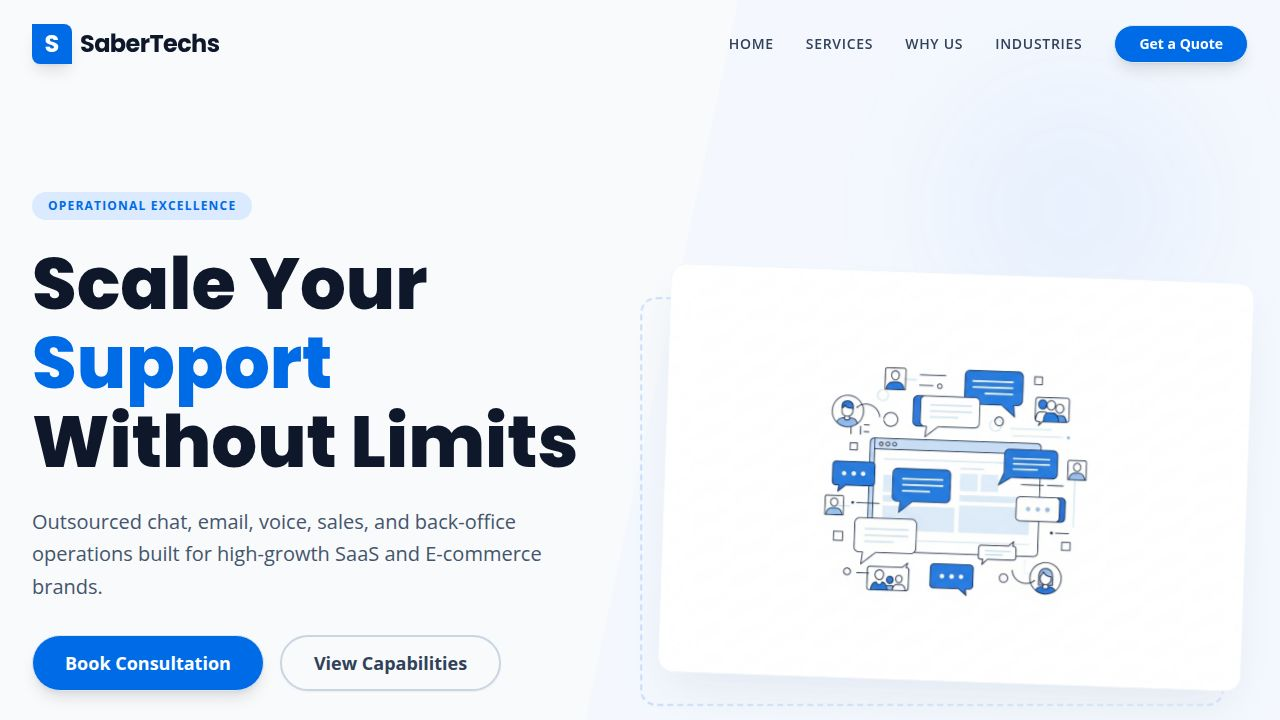
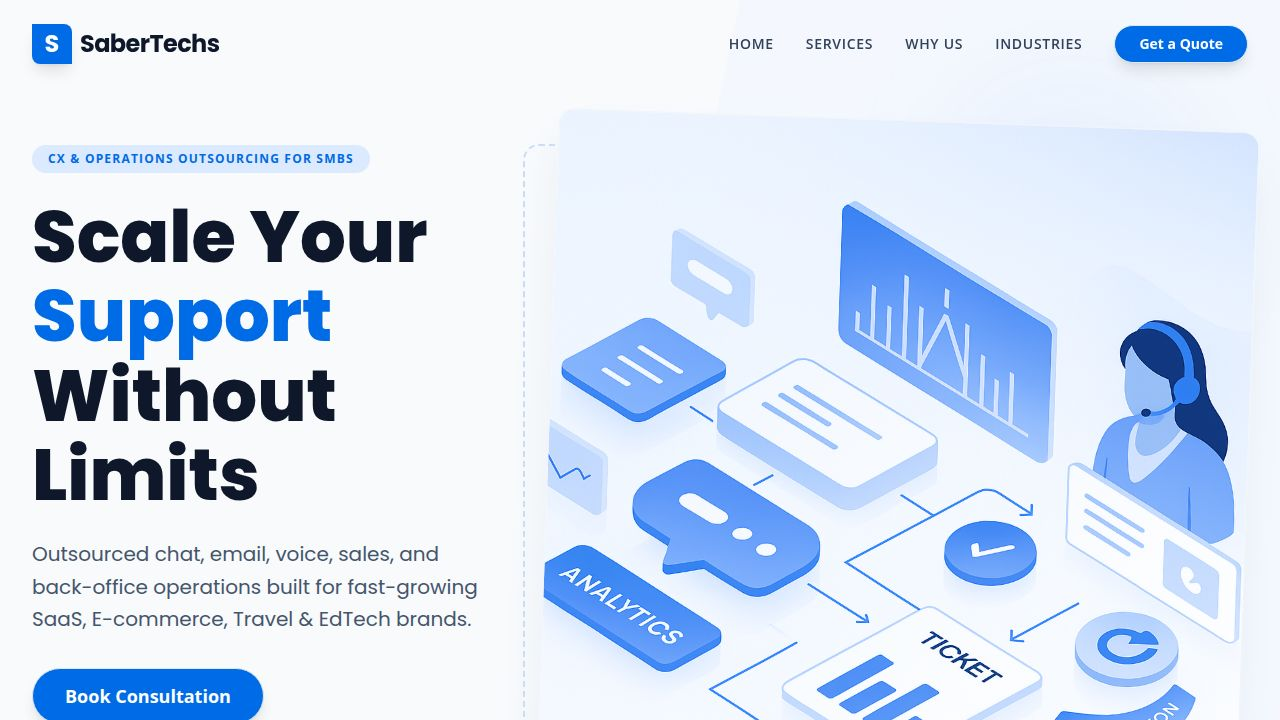
Update hero section with premium corporate theme layout and text
Adjusts hero section layout, padding, and text content to match a premium corporate theme, removing generic icons and refining the background.

Replit-Commit-Author: Agent
Replit-Commit-Session-Id: 95f8924b-a97c-4ebe-a8ae-cc9595746b7a
Replit-Commit-Checkpoint-Type: full_checkpoint
Replit-Commit-Event-Id: 7b87d38e-8f29-45ed-912a-d36b6e2dbdfa
Replit-Commit-Screenshot-Url: https://storage.googleapis.com/screenshot-production-us-central1/a04f54ba-2d57-4c61-8c50-b068b2f90ffe/95f8924b-a97c-4ebe-a8ae-cc9595746b7a/gJ9fLsT
Replit-Helium-Checkpoint-Created: true

diff --git a/client/src/pages/home.tsx b/client/src/pages/home.tsx
@@ -126,7 +126,7 @@ export default function Home() {
       </header>
 
       {/* SECTION 1 — HERO (Avada Style with Diagonal Shape) */}
-      <section className="relative pt-32 pb-32 lg:pt-48 lg:pb-40 overflow-hidden bg-slate-50">
+      <section className="relative py-[120px] overflow-hidden bg-slate-50">
         {/* Abstract Background Shapes */}
         <div className="absolute top-0 right-0 w-2/3 h-full bg-blue-50/50 -skew-x-12 translate-x-1/4 z-0"></div>
         <div className="absolute top-20 right-20 w-64 h-64 bg-primary/5 rounded-full blur-3xl"></div>
@@ -139,7 +139,7 @@ export default function Home() {
               variants={staggerContainer}
             >
               <motion.div variants={fadeIn} className="inline-block px-4 py-1.5 rounded-full bg-blue-100 text-primary font-bold text-xs uppercase tracking-widest mb-6">
-                Operational Excellence
+                CX & OPERATIONS OUTSOURCING FOR SMBs
               </motion.div>
               <motion.h1 
                 className="text-5xl lg:text-7xl font-heading font-extrabold text-slate-900 leading-[1.1] mb-6"
@@ -147,12 +147,12 @@ export default function Home() {
               >
                 Scale Your <span className="text-primary">Support</span> <br/>Without Limits
               </motion.h1>
-              <motion.p 
+              <motion.h3 
                 className="text-xl text-slate-600 mb-8 leading-relaxed max-w-lg font-light"
                 variants={fadeIn}
               >
-                Outsourced chat, email, voice, sales, and back-office operations built for high-growth SaaS and E-commerce brands.
-              </motion.p>
+                Outsourced chat, email, voice, sales, and back-office operations built for fast-growing SaaS, E-commerce, Travel & EdTech brands.
+              </motion.h3>
               <motion.div 
                 className="flex flex-wrap gap-4"
                 variants={fadeIn}
@@ -163,15 +163,6 @@ export default function Home() {
                 <Button variant="outline" size="lg" className="border-2 border-slate-300 text-slate-700 hover:border-slate-800 hover:bg-transparent font-bold rounded-full px-8 h-14 text-lg transition-all">
                   View Capabilities
                 </Button>
-              </motion.div>
-              
-              <motion.div variants={fadeIn} className="mt-10 flex items-center gap-4 text-sm text-slate-500 font-medium">
-                <div className="flex -space-x-2">
-                  {[1,2,3].map(i => (
-                    <div key={i} className="w-8 h-8 rounded-full bg-slate-200 border-2 border-white"></div>
-                  ))}
-                </div>
-                <p>Trusted by 500+ companies</p>
               </motion.div>
             </motion.div>
 
